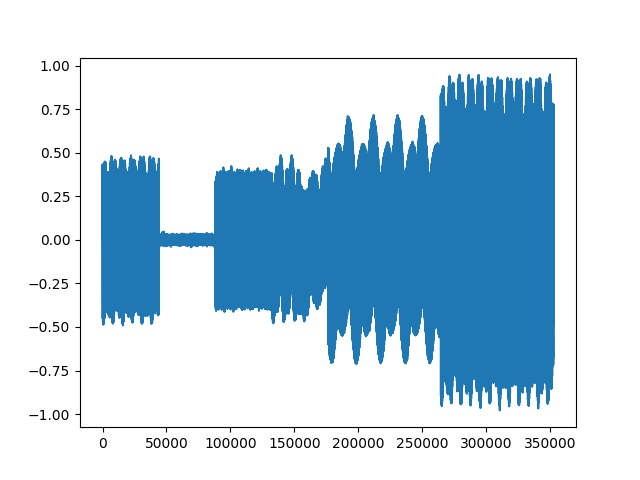
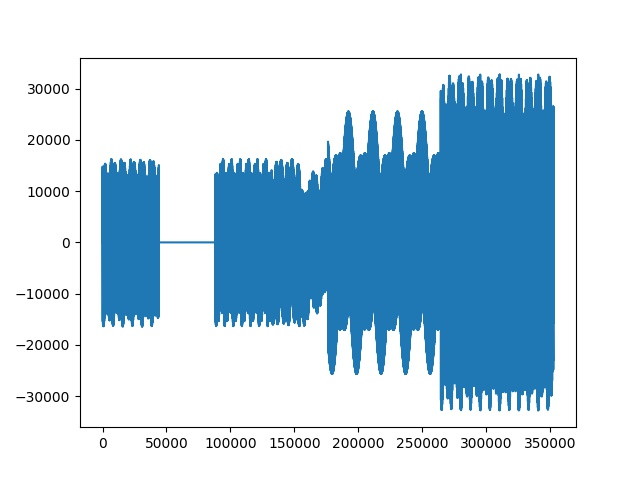
This is a work-in-progress change to downsampling. I should have this in a better state soon.

diff --git a/FinalProject/Engine/AudioCore.py b/FinalProject/Engine/AudioCore.py
@@ -119,22 +119,33 @@ class Downsampler:
 
     # add_dither: function to generate and add noise to the original signal and return the noise added signal
     def add_dither(self, original):
-        noise = np.random.normal(0, .01, original.shape) #generate noise with mean = 0 and standard dev = 0.01
-        new_signal = original + noise #add noise to the signal to generate signal with added dither
+        noise = np.random.normal(0, .01, original.shape)  # generate noise with mean = 0 and standard dev = 0.01
+        new_signal = original + noise  # add noise to the signal to generate signal with added dither
         return new_signal 
 
     # down_quantization: function to perform dithering and return the down-quantized signal
     def down_quantization(self, original, original_br, new_br, dither=1):
-        if (dither):
+        if dither:
             dithered = self.add_dither(original)
         else:
             dithered = original
-        print("newbr=",new_br)
-        # down_quantized =  ((dithered /2**original_br)* 2**new_br)
+        print("newbr=", new_br)
 
-        a =  (dithered >> original_br) 
-        down_quantized = (a << new_br)
-        print("a: ",a)
+        # down_quantized = ((dithered / 2**original_br) * 2**new_br)
+
+        down_quantized = dithered.astype(np.int64)
+        down_quantized = (down_quantized >> 16)
+
+        down_quantized = down_quantized.astype(np.int16)
+
+        print(2)
+
+        # a = np.right_shift(dithered, original_br)
+        # down_quantized = np.left_shift(a, new_br)
+
+        # a =  (dithered >> original_br)
+        # down_quantized = (a << new_br)
+        # print("a: ", a)
 
         return down_quantized
 

diff --git a/FinalProject/finalsynth.py b/FinalProject/finalsynth.py
@@ -298,7 +298,6 @@ if __name__ == '__main__':
     # # print("down-",down_sampled_data)
     # res = output.up_sample(down_sampled_data, int(Fs/down_factor), output.output_sample_rate, t)
 
-
     if args.samplerate is not None:
         output.output_sample_rate = int(args.samplerate[0][0])
 
@@ -318,8 +317,8 @@ if __name__ == '__main__':
         plt.plot(dq)
         plt.savefig('dq.jpg')
         plt.close()
-        res= dq
-        print("Res after down quantize:",res)
+        res = dq
+        print("Res after down quantize:", res)
 
     output.write_wav(args.output[0][0], res, output.output_sample_rate, output.output_bit_rate)
 
